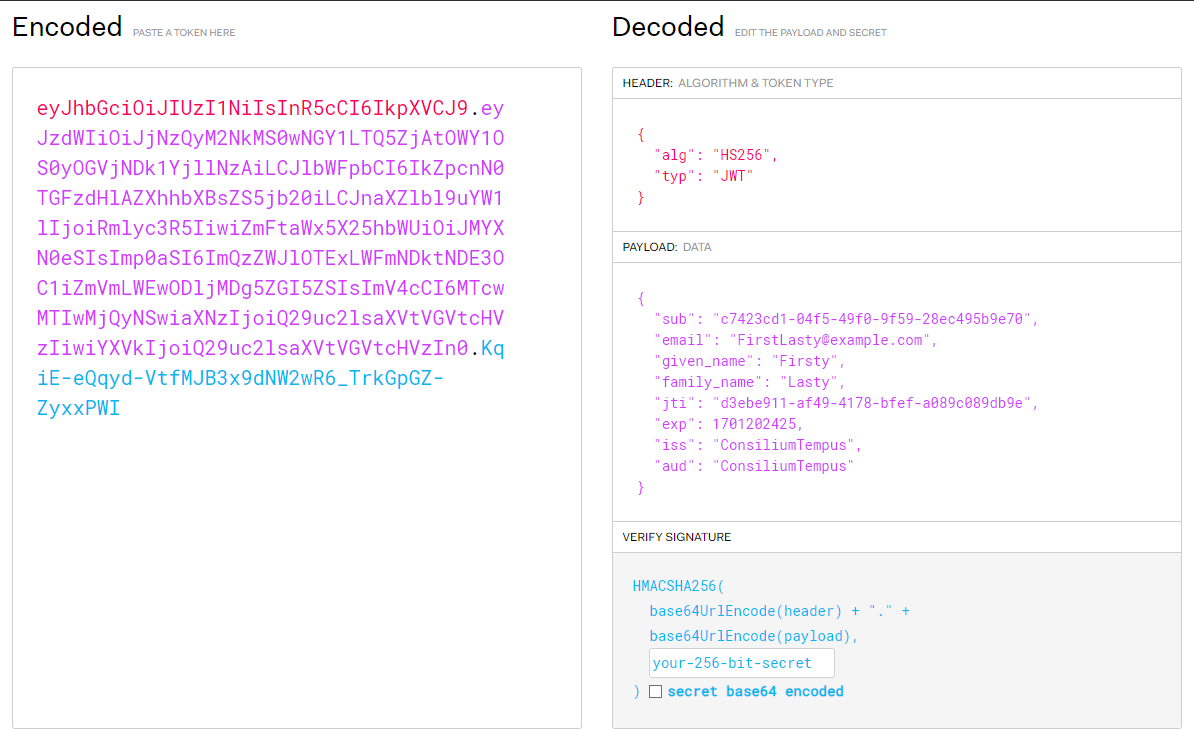
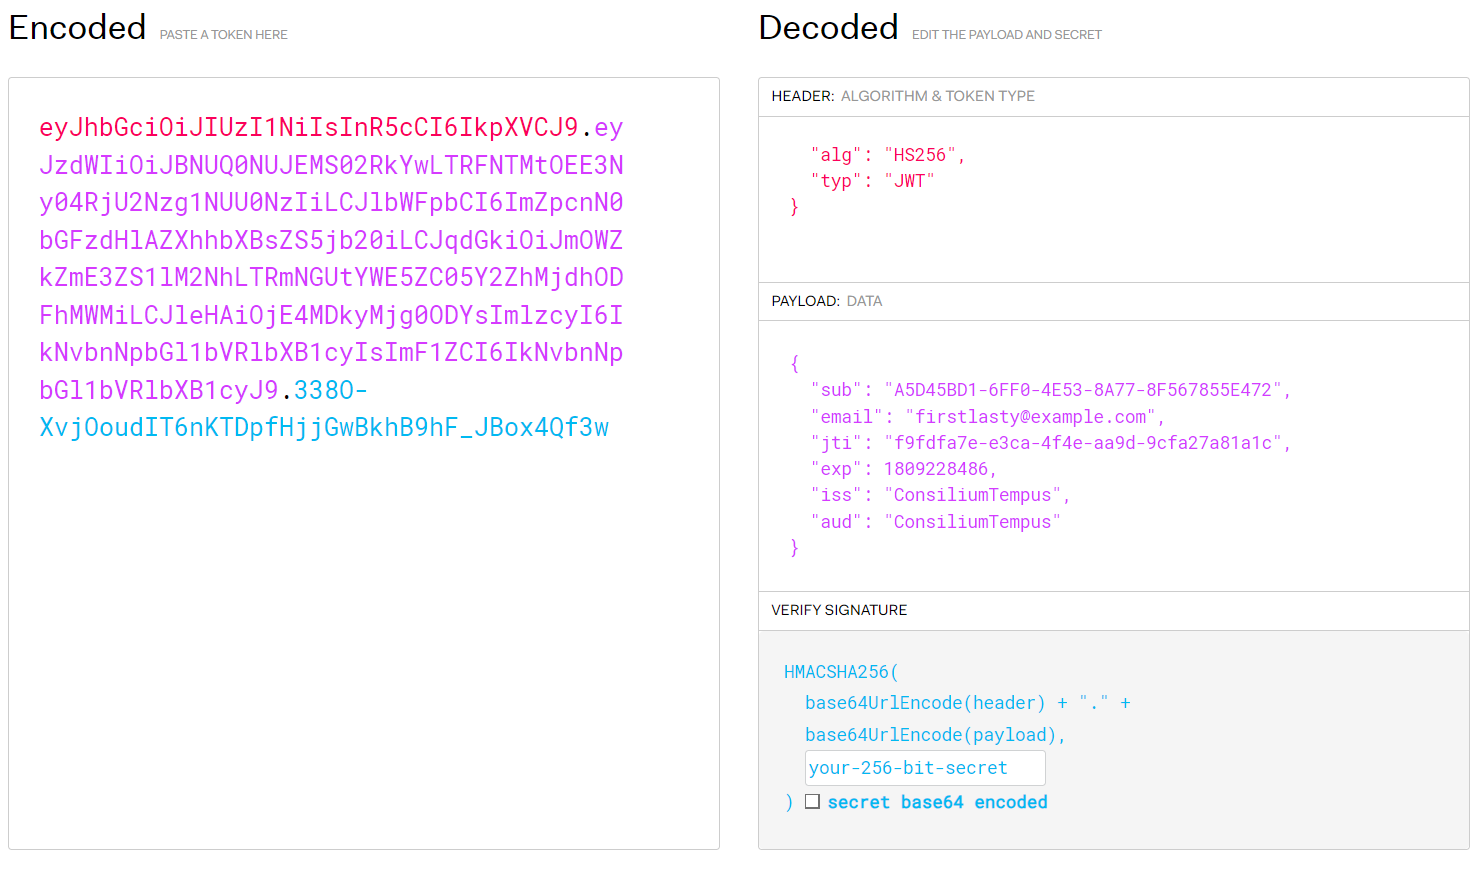
#69 Documentation - Update Api docs to remove the family and given name access token claims

diff --git a/docs/Api.md b/docs/Api.md
@@ -25,7 +25,6 @@ the controller will return status code 403)
 otherwise the user should make use of the *Allow Anonymous* attribute
 - it injects the mapper and the mediator
 - it contains a solution to returning validation problems, conflicts, etc.
-- it provides a way to grab the token from the Headers of the Request
 
 ## Authentication
 
@@ -35,14 +34,12 @@ One way to add one inside Postman is to go to the *Authorization* tab and under 
 - and **Payload** which should include the following:
   - **sub**, the user id of an existing user
   - **email** of the user
-  - **given_name** (first name) of the user
-  - **family_name** (last name) of the user
   - **jti**, the id of the token
   - **exp**, the expiration date in ms
   - **iss** (Issuer) of the application (can be found in the Jwt Settings inside the `appsettings.json`)
   - **aud** (Audience) of the application (can be found in the Jwt Settings inside the `appsettings.json`)
 
-**NOTICE**: The claims are case-sensitive, therefore, they should match with the database data 
+**NOTICE**: The claims are case-sensitive, therefore, they should match with the database data.
 
 An example can be found below: 
 (for a better view of the payload check the Api Auth [documentation](api/Api.Auth.md/#auth))
@@ -65,8 +62,10 @@ have a route similar to its name and have the methods in the following order:
 
 Below, you will find complete documentation on each Controller of the Api Layer:
 - [Authentication](api/Api.Auth.md)
-- [Workspace](api/Api.Workspace.md)
+- [Project](api/Api.Project.md)
+- [Project Sprint](api/Api.ProjectSprint.md)
 - [User](api/Api.User.md)
+- [Workspace](api/Api.Workspace.md)
 
 ## Dto
 
@@ -74,4 +73,5 @@ A **Data Transfer Object** (Dto)
 is usually an aggregate that has undergone mapping so that it can be sent as an Api Response. 
 
 A full list of these Dtos can be found below:
+- [User](api/dto/Dto.User.md)
 - [Workspace](api/dto/Dto.Workspace.md)
